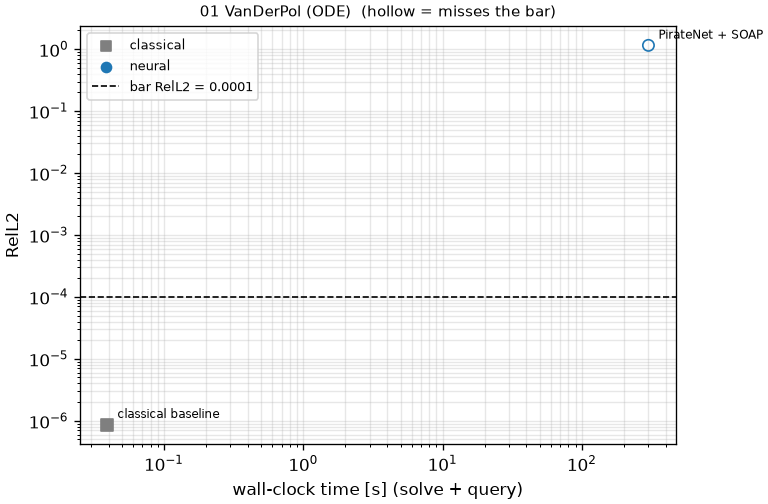
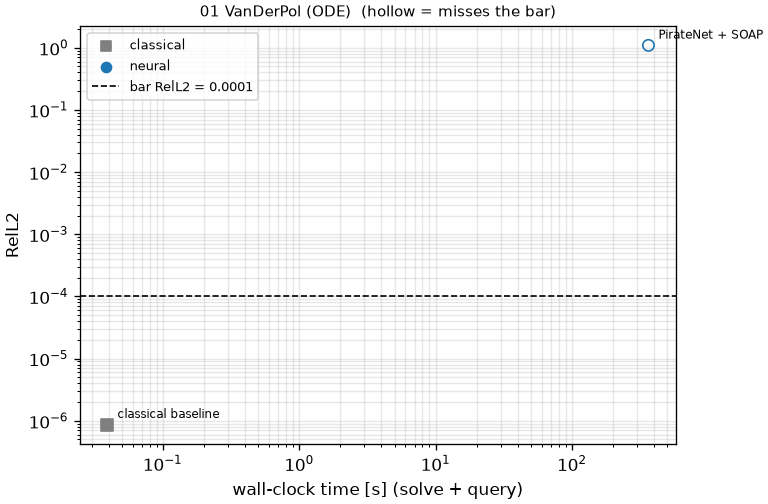
Submission 1: back to TF32 matmuls (JAX default on H100); restore the TF32 results for 01 and 03
Reverts e5c612e.

diff --git a/speedrun/submissions/submission_PR0001/pinn.py b/speedrun/submissions/submission_PR0001/pinn.py
@@ -43,10 +43,6 @@ from flax import linen as nn  # noqa: E402
 from jax.nn.initializers import constant, glorot_normal, normal, zeros  # noqa: E402
 from soap_jax import soap  # noqa: E402
 
-# True float32 matmuls. JAX's default on H100 is TF32 (~3 significant digits), which caps the residual's
-# derivatives: on 03 Burgers it holds L-inf at ~5e-3 against the 1e-3 bar; with "highest", 6e-4 in 120 s.
-jax.config.update("jax_default_matmul_precision", "highest")
-
 CHUNK = 50           # training iterations per jitted call; checkpoint after each
 
 

diff --git a/README.md b/README.md
@@ -158,9 +158,9 @@ its tracker: RelL2 vs wall-clock time, one point per submission, bar dashed.
 <!-- tracks-table:begin -->
 | track | best submission | time [s] | RelL2 | L∞ | bar met |
 |---|---|---|---|---|---|
-| 01 VanDerPol (ODE) | [PirateNet + SOAP](tracks/track01_0DT_VanDerPol/submissions/submission_PR0001/solve.py) | 300.6 | 1.15e+00 (≤ 0.0001) | 3.53e+00 (≤ 0.001) | no |
+| 01 VanDerPol (ODE) | [PirateNet + SOAP](tracks/track01_0DT_VanDerPol/submissions/submission_PR0001/solve.py) | 363.2 | 1.09e+00 (≤ 0.0001) | 3.34e+00 (≤ 0.001) | no |
 | 02 DampedWave (1D + Time) | [PirateNet + SOAP](tracks/track02_1DT_DampedWave/submissions/submission_PR0001/solve.py) | 1001 | 1.66e-02 (≤ 0.0001) | 1.53e-02 (≤ 0.001) | no |
-| 03 Burgers (1D + Time) | [PirateNet + SOAP](tracks/track03_1DT_Burgers/submissions/submission_PR0001/solve.py) | 1000 | 8.08e-06 (≤ 0.0001) | 3.86e-05 (≤ 0.001) | yes |
+| 03 Burgers (1D + Time) | [PirateNet + SOAP](tracks/track03_1DT_Burgers/submissions/submission_PR0001/solve.py) | 1001 | 1.04e-04 (≤ 0.0001) | 5.40e-03 (≤ 0.001) | no |
 | 04 KuramotoSivashinsky (1D + Time) | [PirateNet + SOAP](tracks/track04_1DT_KuramotoSivashinsky/submissions/submission_PR0001/solve.py) | 1001 | 9.30e-01 (≤ 0.05) | 3.42e+00 (≤ 0.5) | no |
 | 05 AllenCahn (1D + Time) | [PirateNet + SOAP](tracks/track05_1DT_AllenCahn/submissions/submission_PR0001/solve.py) | 403.1 | 2.77e-03 (≤ 0.0001) | 3.70e-02 (≤ 0.001) | no |
 | 06 KdV (1D + Time) | [PirateNet + SOAP](tracks/track06_1DT_KdV/submissions/submission_PR0001/solve.py) | 1000 | 1.46e-03 (≤ 0.001) | 1.08e-02 (≤ 0.01) | no |

diff --git a/speedrun/submissions/submission_PR0001/README.md b/speedrun/submissions/submission_PR0001/README.md
@@ -23,8 +23,7 @@ code (github.com/PredictiveIntelligenceLab/jaxpi, branch `pirate`) and its `pira
 - **Execution**: `solve` is one open-ended training loop; every 50 iterations (one jitted `lax.fori_loop`,
   collocation points resampled every iteration) it checkpoints the parameters for the harness. Losses are read
   one chunk late, so the GPU never waits for the host. All functions are compiled ahead of time in `setup`.
-  Matmuls run in true float32 (`jax_default_matmul_precision = highest`), not JAX's TF32 default: TF32
-  caps the accuracy of the residual's derivatives (03 Burgers: L∞ 5e-3 with TF32, 6e-4 with float32 in 120 s).
+  Matmuls use JAX's default precision (TF32 on H100), as jaxpi.
 - **Stopping**: `solve` returns once the loss stops improving by 2% for max(150 s, 25% of the elapsed time), or
   drops below 1e-10; otherwise the harness interrupts it at the track's budget (1000 s) and queries the last
   checkpoint. No reference is used.

diff --git a/tracks/track01_0DT_VanDerPol/README.md b/tracks/track01_0DT_VanDerPol/README.md
@@ -29,7 +29,7 @@ Current record: **0.03922 s** (record #0: classical baseline, maintainers, 2026-
 
 | date | author | name | kind | time [s] | RelL2 | L∞ | passes | hardware |
 |---|---|---|---|---|---|---|---|---|
-| 2026-10-30 | maintainers | PirateNet + SOAP | neural | 300.6 | 1.15e+00 | 3.53e+00 | no | NVIDIA H100 80GB HBM3 (JAX) |
+| 2026-10-30 | maintainers | PirateNet + SOAP | neural | 363.2 | 1.09e+00 | 3.34e+00 | no | NVIDIA H100 80GB HBM3 (JAX) |
 | 2026-10-30 | maintainers | record #0: classical baseline | classical | 0.03922 | 8.65e-07 | 5.37e-05 | yes | CPU (Intel(R) Core(TM) i9-7920X CPU @ 2.90GHz) |
 
 ![accuracy_vs_time](figures/accuracy_vs_time.png)

diff --git a/tracks/track03_1DT_Burgers/README.md b/tracks/track03_1DT_Burgers/README.md
@@ -30,7 +30,7 @@ Current record: **0.231 s** (record #0: classical baseline, maintainers, 2026-10
 
 | date | author | name | kind | time [s] | RelL2 | L∞ | passes | hardware |
 |---|---|---|---|---|---|---|---|---|
-| 2026-10-30 | maintainers | PirateNet + SOAP | neural | 1000 | 8.08e-06 | 3.86e-05 | yes | NVIDIA H100 80GB HBM3 (JAX) |
+| 2026-10-30 | maintainers | PirateNet + SOAP | neural | 1001 | 1.04e-04 | 5.40e-03 | no | NVIDIA H100 80GB HBM3 (JAX) |
 | 2026-10-30 | maintainers | record #0: classical baseline | classical | 0.231 | 4.43e-07 | 1.10e-04 | yes | NVIDIA GeForce RTX 2080 Ti |
 
 ![accuracy_vs_time](figures/accuracy_vs_time.png)
